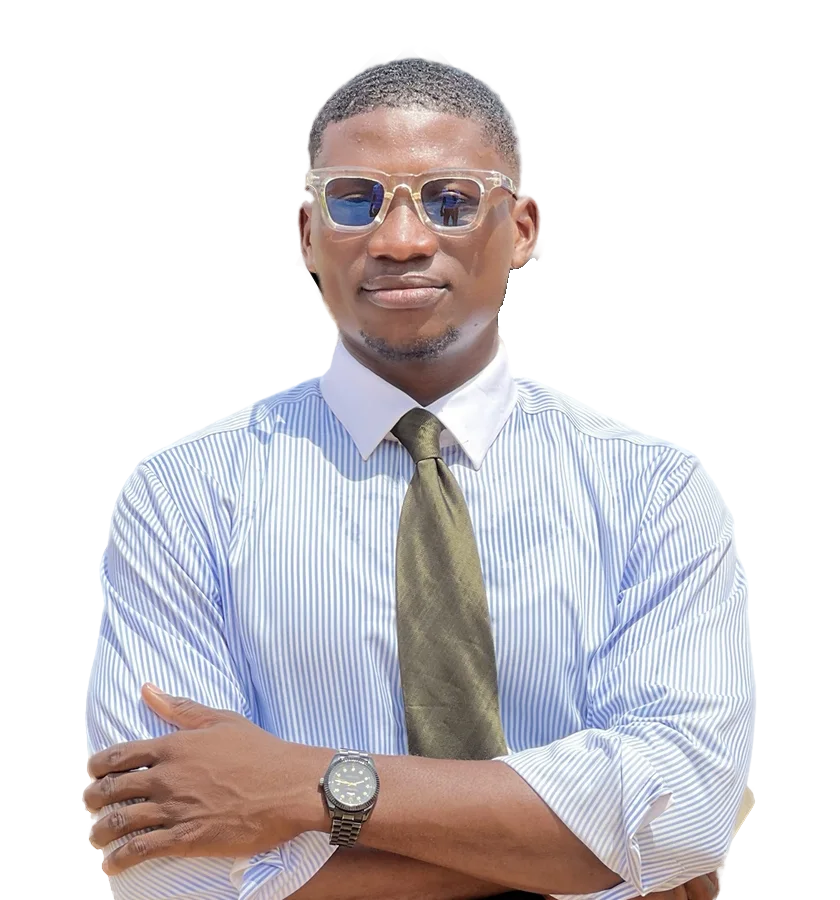
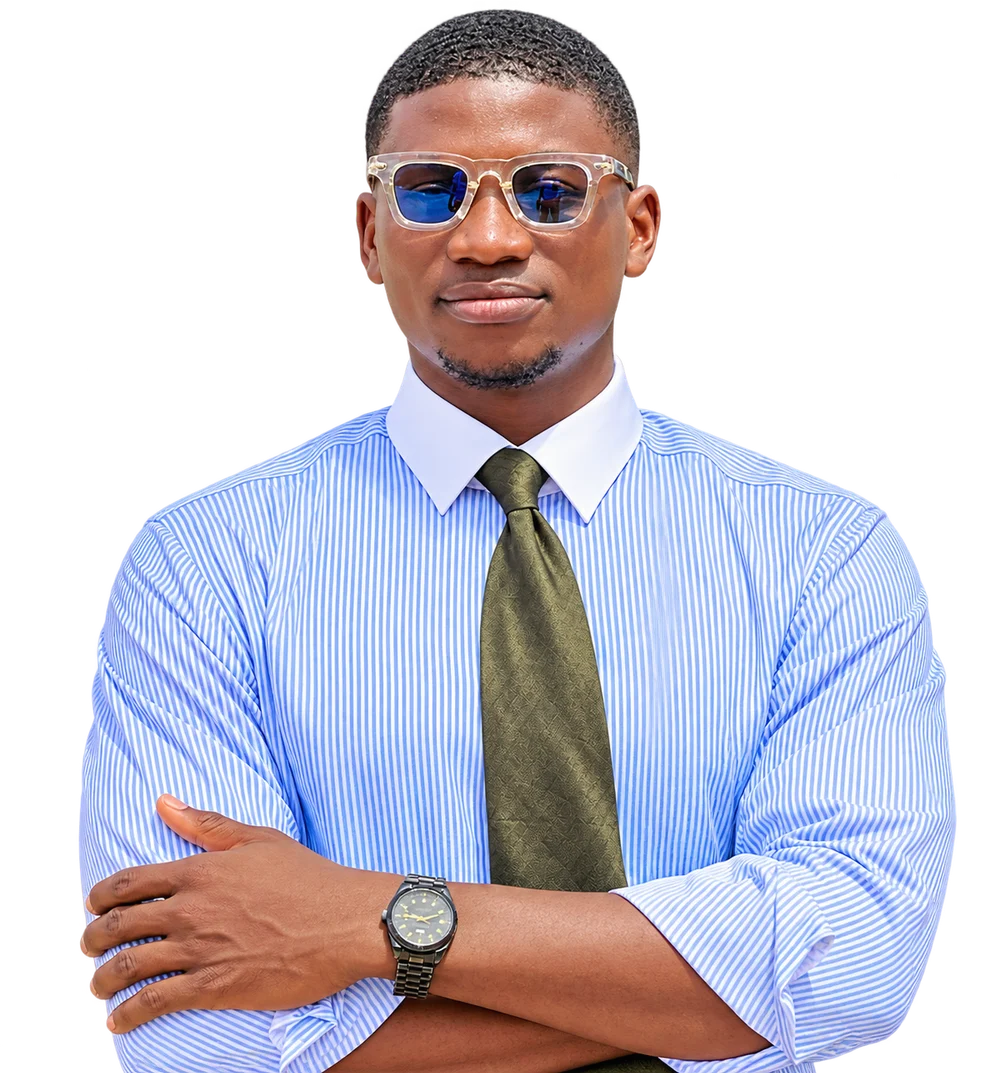
Nouvelle photo de portrait en haute définition
Claude-Session: https://claude.ai/code/session_01EmsvXctxsPmyhbH3WiTfmd

diff --git a/index.html b/index.html
@@ -175,7 +175,7 @@ h2{font-family:var(--titre);font-weight:800;text-transform:uppercase;font-size:c
       </div>
     </div>
     <div class="plaque">
-      <img src="assets/jean-pierre.webp" width="840" height="900" alt="Jean-Pierre Toudeka, bras croisés, en chemise et cravate">
+      <img src="assets/jean-pierre.webp" width="1000" height="1073" alt="Jean-Pierre Toudeka, bras croisés, en chemise et cravate">
     </div>
   </section>
 
